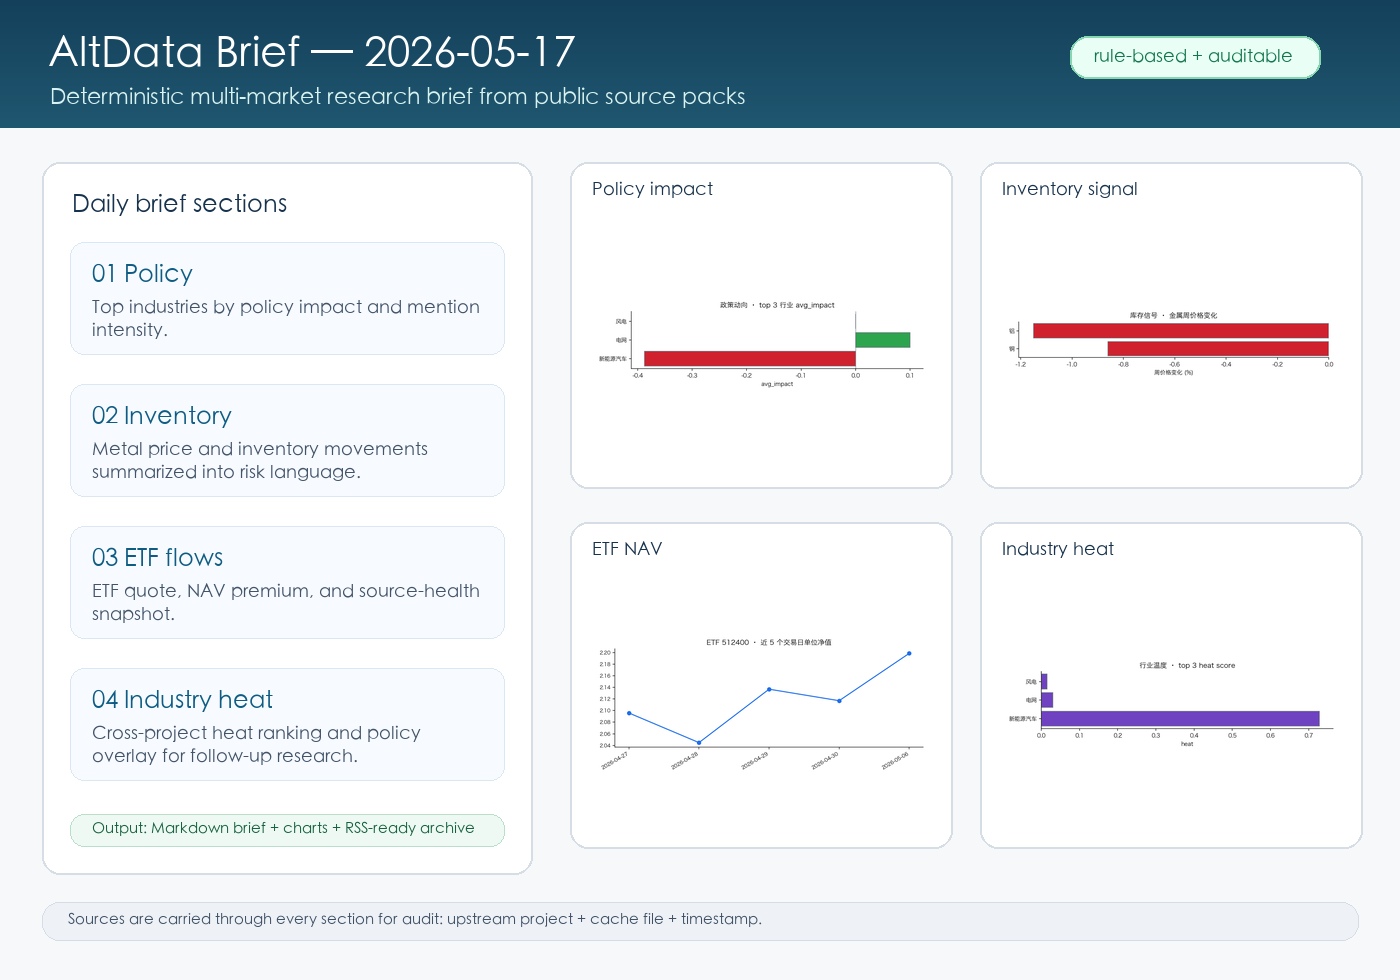
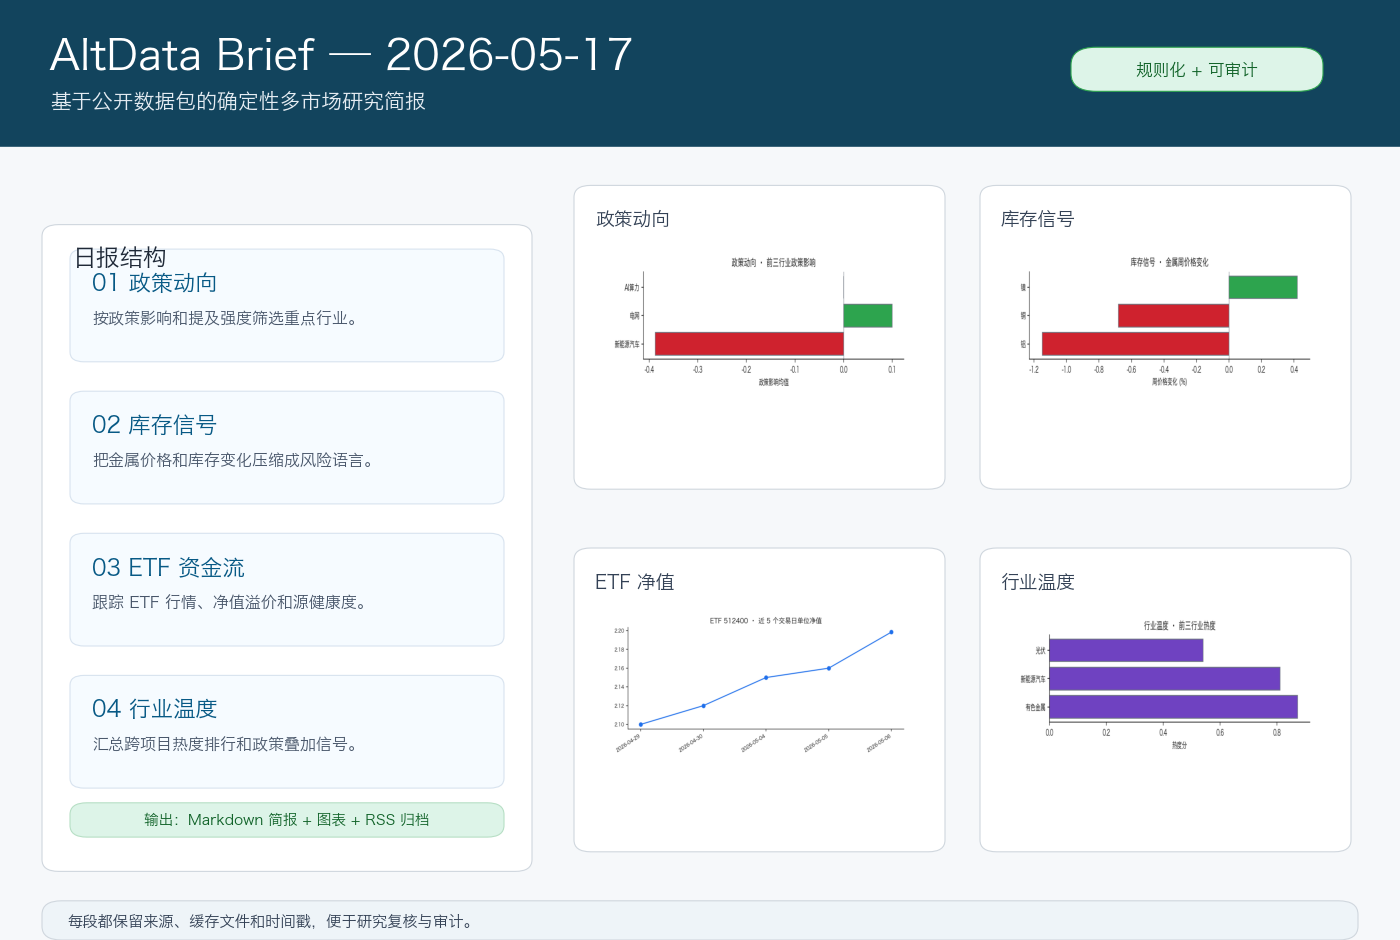
docs(readme): refresh sample chart assets

diff --git a/scripts/update_readme_assets.py b/scripts/update_readme_assets.py
@@ -1,0 +1,221 @@
+#!/usr/bin/env python3
+"""Regenerate the checked-in README sample charts and preview image.
+
+The README images are static artifacts, so this script keeps them in sync with
+the current chart renderer and avoids stale mixed-language screenshots.
+"""
+
+from __future__ import annotations
+
+import json
+import sys
+from pathlib import Path
+from typing import Any
+
+ROOT = Path(__file__).resolve().parents[1]
+sys.path.insert(0, str(ROOT / "src"))
+
+import matplotlib  # noqa: E402
+
+matplotlib.use("Agg")
+import matplotlib.image as mpimg  # noqa: E402
+import matplotlib.pyplot as plt  # noqa: E402
+import numpy as np  # noqa: E402
+from matplotlib.patches import FancyBboxPatch  # noqa: E402
+
+from altdata_brief.render.charts import render_all_charts  # noqa: E402
+
+OUT_DIR = ROOT / "docs" / "sample_charts"
+FIXTURE_ROOT = ROOT / "tests" / "fixtures"
+PREVIEW_PATH = OUT_DIR / "brief_preview.png"
+
+
+def main() -> None:
+    OUT_DIR.mkdir(parents=True, exist_ok=True)
+    render_all_charts(
+        output_dir=OUT_DIR,
+        policy_top=_policy_rows(),
+        metals=_metal_rows(),
+        industry_top=_industry_rows(),
+        nav_trend=_nav_rows(),
+    )
+    _render_preview()
+
+
+def _read_json(path: Path) -> dict[str, Any]:
+    return json.loads(path.read_text(encoding="utf-8"))
+
+
+def _policy_rows() -> list[dict[str, Any]]:
+    payload = _read_json(FIXTURE_ROOT / "public_summary" / "alt_data_summary.json")
+    signals = payload["providers"]["policy_radar"]["industry_signals"]
+    rows = [
+        {
+            "industry": industry,
+            "avg_impact": float(info.get("avg_impact", 0.0) or 0.0),
+            "mentions": int(info.get("mentions", 0) or 0),
+            "signal": info.get("signal", "neutral"),
+        }
+        for industry, info in signals.items()
+    ]
+    rows.sort(key=lambda row: (abs(row["avg_impact"]), row["mentions"]), reverse=True)
+    return rows[:3]
+
+
+def _metal_rows() -> list[dict[str, Any]]:
+    payload = _read_json(FIXTURE_ROOT / "public_summary" / "alt_data_summary.json")
+    metals = payload["providers"]["macro_hf"]["metals"]
+    names = {"aluminium": "铝", "copper": "铜", "nickel": "镍"}
+    rows = [
+        {
+            "metal": metal,
+            "name_cn": names.get(metal, metal),
+            "price_change_pct": float(info.get("weekly_change_pct", 0.0) or 0.0),
+        }
+        for metal, info in metals.items()
+    ]
+    rows.sort(key=lambda row: abs(row["price_change_pct"]), reverse=True)
+    return rows[:3]
+
+
+def _industry_rows() -> list[dict[str, Any]]:
+    payload = _read_json(FIXTURE_ROOT / "public_summary" / "quant_summary.json")
+    return payload["providers"]["industry_heat"]["top_industries_by_score"][:3]
+
+
+def _nav_rows() -> list[dict[str, Any]]:
+    payload = _read_json(FIXTURE_ROOT / "etf_512400" / "liveSnapshot.json")
+    return payload["navTrend"][-5:]
+
+
+def _render_preview() -> None:
+    fig = plt.figure(figsize=(14, 9.8), dpi=100)
+    fig.patch.set_facecolor("#f6f8fa")
+
+    _header(fig)
+    _section_panel(fig)
+    _chart_card(fig, [0.41, 0.50, 0.265, 0.31], "政策动向", OUT_DIR / "policy_impact.png")
+    _chart_card(fig, [0.70, 0.50, 0.265, 0.31], "库存信号", OUT_DIR / "inventory_change.png")
+    _chart_card(fig, [0.41, 0.13, 0.265, 0.31], "ETF 净值", OUT_DIR / "etf_nav.png")
+    _chart_card(fig, [0.70, 0.13, 0.265, 0.31], "行业温度", OUT_DIR / "industry_heat.png")
+
+    _rounded_box(fig, 0.03, 0.04, 0.94, 0.04, "#eef4f8", "#d0d7de", radius=0.014)
+    fig.text(
+        0.048,
+        0.059,
+        "每段都保留来源、缓存文件和时间戳，便于研究复核与审计。",
+        fontsize=11,
+        color="#334155",
+        va="center",
+    )
+
+    fig.savefig(PREVIEW_PATH, bbox_inches="tight", pad_inches=0)
+    plt.close(fig)
+
+
+def _header(fig: plt.Figure) -> None:
+    _rounded_box(fig, 0, 0.85, 1, 0.15, "#12445d", "#12445d", radius=0)
+    fig.text(
+        0.035,
+        0.94,
+        "AltData Brief — 2026-05-17",
+        fontsize=30,
+        color="white",
+        va="center",
+    )
+    fig.text(
+        0.036,
+        0.895,
+        "基于公开数据包的确定性多市场研究简报",
+        fontsize=15,
+        color="#e6edf3",
+        va="center",
+    )
+    _rounded_box(fig, 0.765, 0.906, 0.18, 0.045, "#ddf4e8", "#2da44e", radius=0.018)
+    fig.text(0.855, 0.928, "规则化 + 可审计", fontsize=12, color="#116329", ha="center", va="center")
+
+
+def _section_panel(fig: plt.Figure) -> None:
+    _rounded_box(fig, 0.03, 0.11, 0.35, 0.66, "#ffffff", "#d0d7de", radius=0.012)
+    fig.text(0.052, 0.735, "日报结构", fontsize=17, color="#1f2937", va="center")
+
+    items = [
+        ("01 政策动向", "按政策影响和提及强度筛选重点行业。"),
+        ("02 库存信号", "把金属价格和库存变化压缩成风险语言。"),
+        ("03 ETF 资金流", "跟踪 ETF 行情、净值溢价和源健康度。"),
+        ("04 行业温度", "汇总跨项目热度排行和政策叠加信号。"),
+    ]
+    y = 0.63
+    for title, body in items:
+        _rounded_box(fig, 0.05, y, 0.31, 0.115, "#f6fbff", "#d8e3ef", radius=0.010)
+        fig.text(0.066, y + 0.080, title, fontsize=16, color="#075985", va="center")
+        fig.text(0.066, y + 0.044, body, fontsize=11.5, color="#475569", va="center")
+        y -= 0.145
+
+    _rounded_box(fig, 0.05, 0.145, 0.31, 0.035, "#ddf4e8", "#b7dfc5", radius=0.012)
+    fig.text(
+        0.205,
+        0.162,
+        "输出：Markdown 简报 + 图表 + RSS 归档",
+        fontsize=10.5,
+        color="#116329",
+        ha="center",
+        va="center",
+    )
+
+
+def _chart_card(fig: plt.Figure, rect: list[float], title: str, path: Path) -> None:
+    x, y, width, height = rect
+    _rounded_box(fig, x, y, width, height, "#ffffff", "#d0d7de", radius=0.012)
+    fig.text(x + 0.015, y + height - 0.035, title, fontsize=13.5, color="#334155", va="center")
+
+    ax = fig.add_axes([x + 0.025, y + 0.095, width - 0.05, height - 0.16])
+    ax.set_zorder(5)
+    ax.patch.set_alpha(0)
+    ax.imshow(_cropped_chart(path), aspect="auto")
+    ax.axis("off")
+
+
+def _cropped_chart(path: Path) -> np.ndarray:
+    image = mpimg.imread(path)
+    rgb = image[..., :3]
+    non_white = np.any(rgb < 0.985, axis=2)
+    rows, cols = np.where(non_white)
+    if not len(rows) or not len(cols):
+        return image
+
+    pad = 20
+    y0 = max(int(rows.min()) - pad, 0)
+    y1 = min(int(rows.max()) + pad, image.shape[0] - 1)
+    x0 = max(int(cols.min()) - pad, 0)
+    x1 = min(int(cols.max()) + pad, image.shape[1] - 1)
+    return image[y0 : y1 + 1, x0 : x1 + 1]
+
+
+def _rounded_box(
+    fig: plt.Figure,
+    x: float,
+    y: float,
+    width: float,
+    height: float,
+    facecolor: str,
+    edgecolor: str,
+    *,
+    radius: float,
+) -> None:
+    box = FancyBboxPatch(
+        (x, y),
+        width,
+        height,
+        boxstyle=f"round,pad=0,rounding_size={radius}",
+        transform=fig.transFigure,
+        facecolor=facecolor,
+        edgecolor=edgecolor,
+        linewidth=0.8,
+        zorder=-1,
+    )
+    fig.patches.append(box)
+
+
+if __name__ == "__main__":
+    main()

diff --git a/README.md b/README.md
@@ -15,18 +15,18 @@
 `altdata-brief` produces deterministic research briefs over multi-market alt-data — currently synthesized from four public-source adapters I maintain. The goal is a reusable research-automation surface for source packs across markets.
 
 <p align="center">
-  <img src="docs/sample_charts/brief_preview.png" alt="AltData Brief sample output preview" width="88%" />
+  <img src="docs/sample_charts/brief_preview.png" alt="AltData Brief 示例输出预览" width="88%" />
   <br />
-  <sub>一份简报把 policy / inventory / ETF / industry heat 合成为可版本化 Markdown + charts + RSS</sub>
+  <sub>一份简报把政策动向、库存信号、ETF 资金流和行业温度合成为可版本化 Markdown + 图表 + RSS</sub>
 </p>
 
 <p align="center">
-  <img src="docs/sample_charts/policy_impact.png" alt="Policy impact sample chart" width="48%" />
-  <img src="docs/sample_charts/inventory_change.png" alt="Inventory signal sample chart" width="48%" />
+  <img src="docs/sample_charts/policy_impact.png" alt="政策动向示例图" width="48%" />
+  <img src="docs/sample_charts/inventory_change.png" alt="库存信号示例图" width="48%" />
 </p>
 <p align="center">
-  <img src="docs/sample_charts/etf_nav.png" alt="ETF NAV sample chart" width="48%" />
-  <img src="docs/sample_charts/industry_heat.png" alt="Industry heat sample chart" width="48%" />
+  <img src="docs/sample_charts/etf_nav.png" alt="ETF 净值示例图" width="48%" />
+  <img src="docs/sample_charts/industry_heat.png" alt="行业温度示例图" width="48%" />
 </p>
 
 ---
